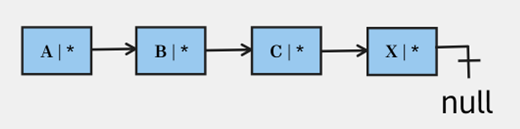
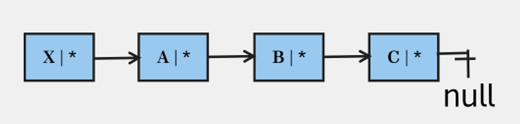
GITBOOK-3: No subject

Changed region(s): [[0.0308, 0.1935, 0.9231, 0.6774], [0.8308, 0.6532, 0.9538, 0.8952]]

diff --git a/README.md b/README.md
@@ -12,7 +12,7 @@ Let’s take linked list
 
 &#x20;
 
-<figure><img src=".gitbook/assets/image.png" alt=""><figcaption><p><strong>adding a new node on the first position</strong></p></figcaption></figure>
+<figure><img src=".gitbook/assets/image (1).png" alt=""><figcaption><p><strong>adding a new node on the first position</strong></p></figcaption></figure>
 
 &#x20;
 
@@ -28,5 +28,5 @@ Let’s take linked list
 
 4\.      Set the next pointer of (X) to null.
 
-<figure><img src=".gitbook/assets/image (1).png" alt=""><figcaption><p>adding a new node on the last position</p></figcaption></figure>
+<figure><img src=".gitbook/assets/image (1) (1).png" alt=""><figcaption><p>adding a new node on the last position</p></figcaption></figure>
 

diff --git a/lab-single-linked-list-overview/task-part-2.md b/lab-single-linked-list-overview/task-part-2.md
@@ -1,0 +1,9 @@
+# Task – Part 2
+
+Design the object/class diagram for a single linked list that allows you to reverse the items in the list. Included will be a method to reverse all the items in the list.
+
+<figure><img src="../.gitbook/assets/image.png" alt=""><figcaption><p>object/class diagram for a single linked list</p></figcaption></figure>
+
+
+
+Create a NetBeans application that implements a Single Linked List and uses this ADT. Include an interface, a node, and a Single Linked List class. Use the app class to demonstrate checking the size, if the list is empty, adding, removing, and reversing the list.

diff --git a/SUMMARY.md b/SUMMARY.md
@@ -3,3 +3,4 @@
 ## LAB - Single Linked List Overview&#x20;
 
 * [Task – Part 1](README.md)
+* [Task – Part 2](lab-single-linked-list-overview/task-part-2.md)
